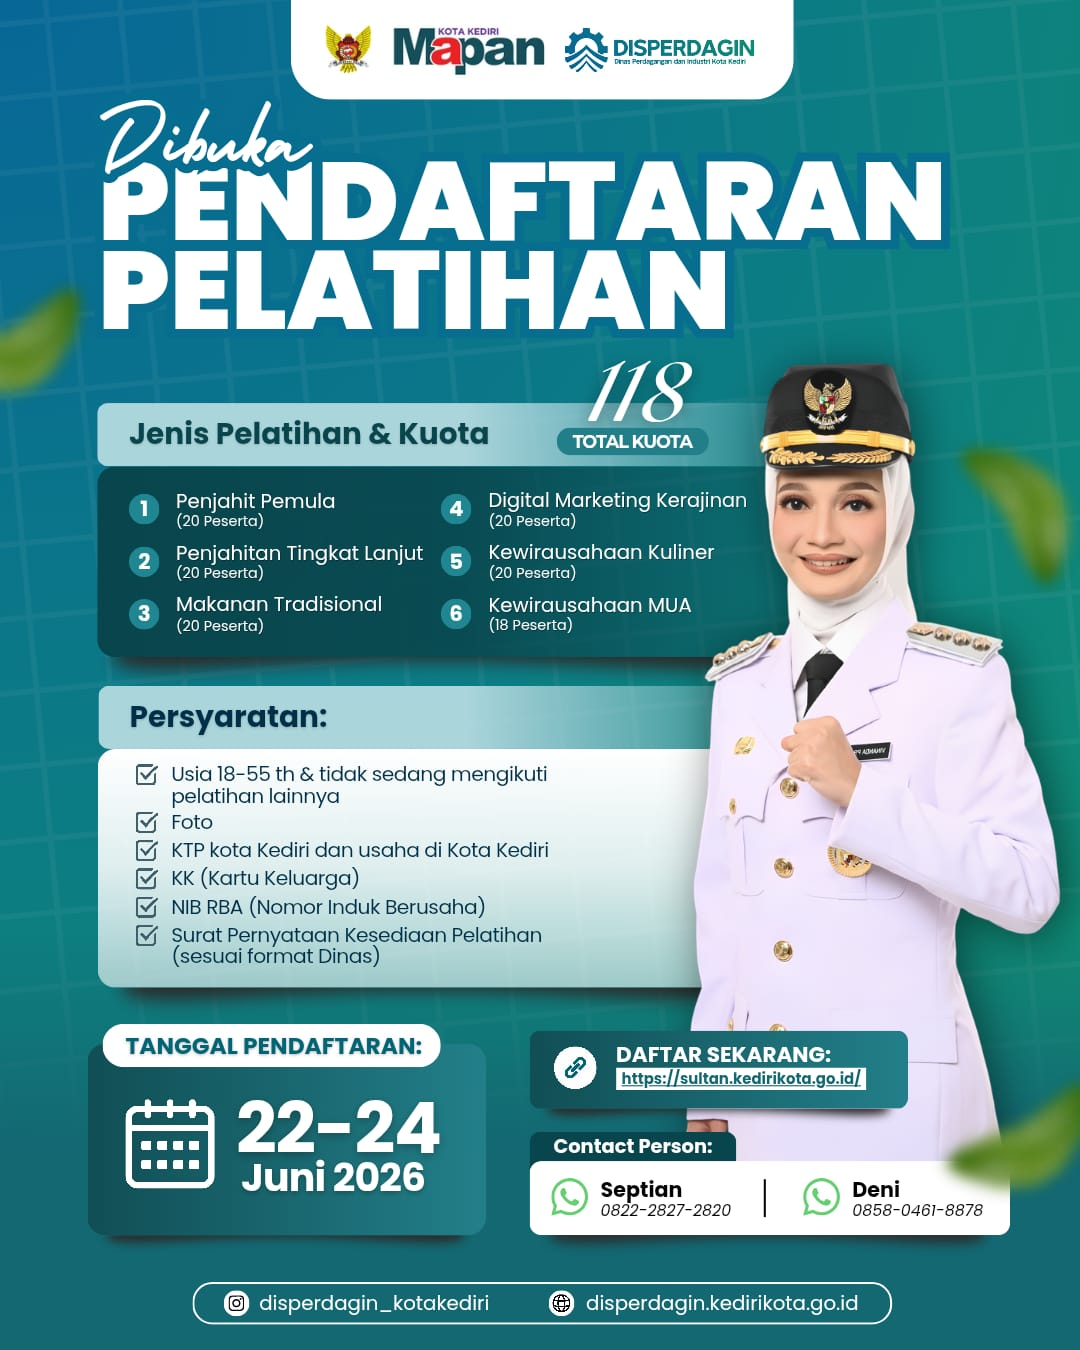
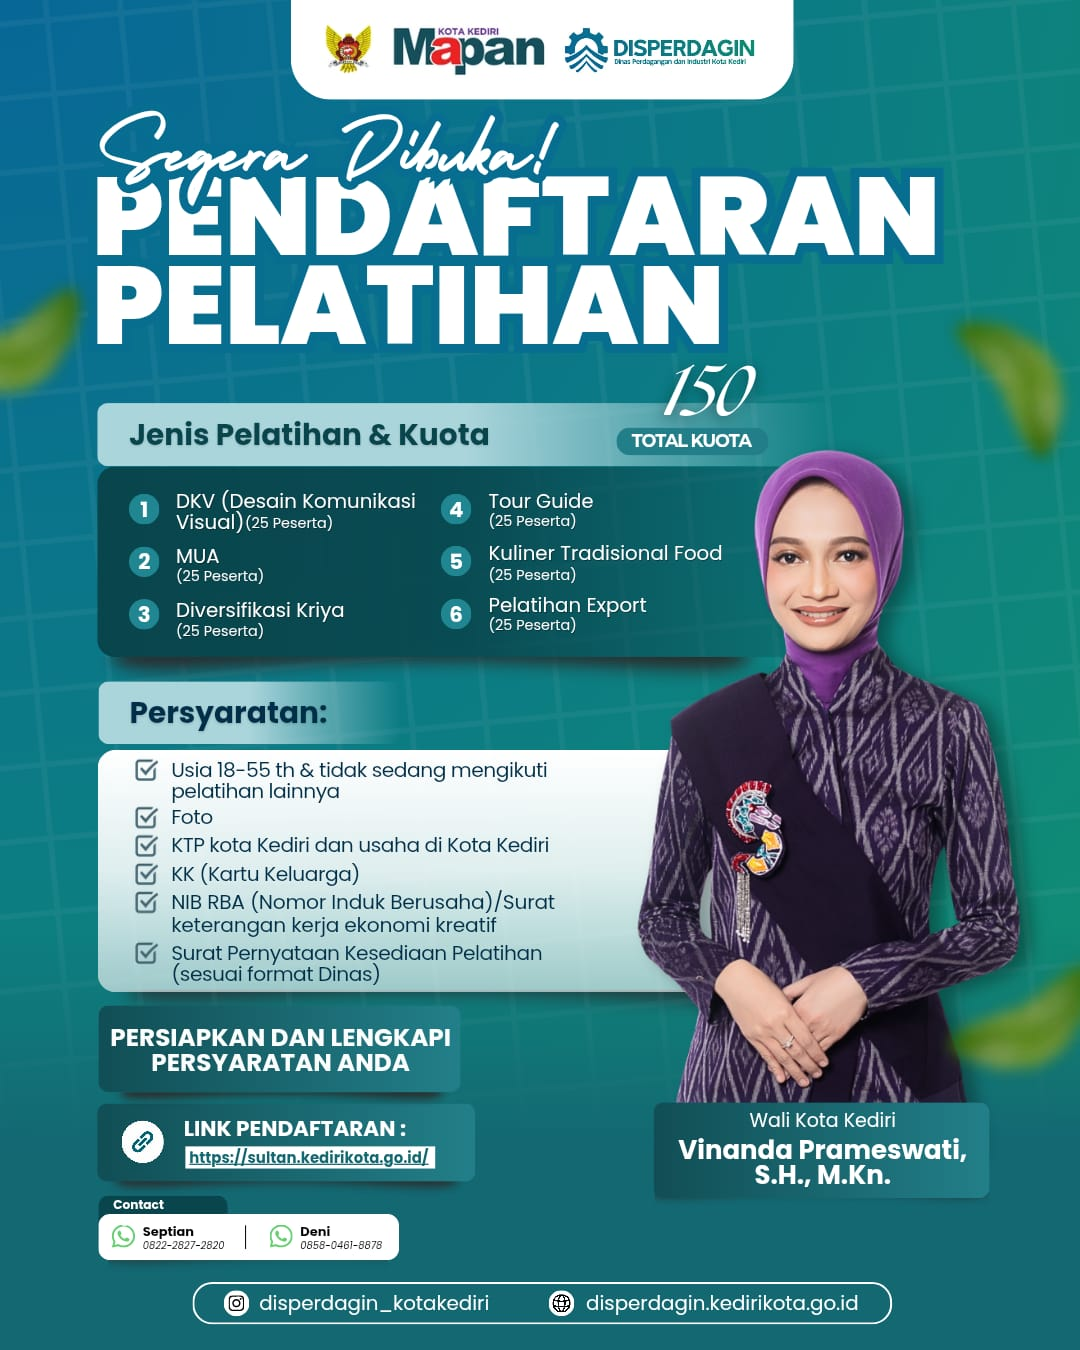
feat: update statistics to count current year registrations and enable WelcomePopup in the homepage

diff --git a/resources/js/Pages/Home/Index.jsx b/resources/js/Pages/Home/Index.jsx
@@ -24,7 +24,7 @@ export default function Index({
 
     return (
         <>
-            {/* <WelcomePopup /> */}
+            <WelcomePopup />
             <Layout>
                 <Head title={meta.title} />
                 <style>
@@ -288,7 +288,7 @@ export default function Index({
                                 color: "#22223b",
                             }}
                         >
-                            Statistik Pendaftar Program
+                            Statistik Pendaftar Program Tahun {new Date().getFullYear()}
                         </h2>
 
                         <Row className="justify-content-center text-center g-4">

diff --git a/app/Http/Controllers/HomeController.php b/app/Http/Controllers/HomeController.php
@@ -19,12 +19,12 @@ class HomeController extends Controller
 {
     public function index()
     {
-        $banmod = PendaftaranBanmod::count();
-        $pelatihanbanmod = PelatihanBanmod::count();
-        $pencarikerja = PelatihanKerjas::count();
-        $umkm = PelatihanUmkm::count();
-        $pertanian = PelatihanPetani::count();
-        $ekraf = PelatihanEkonomiKreatif::count();
+        $banmod = PendaftaranBanmod::whereYear('created_at', now()->year)->count();
+        $pelatihanbanmod = PelatihanBanmod::whereYear('created_at', now()->year)->count();
+        $pencarikerja = PelatihanKerjas::whereYear('created_at', now()->year)->count();
+        $umkm = PelatihanUmkm::whereYear('created_at', now()->year)->count();
+        $pertanian = PelatihanPetani::whereYear('created_at', now()->year)->count();
+        $ekraf = PelatihanEkonomiKreatif::whereYear('created_at', now()->year)->count();
 
         // Ambil data training types dari database
         $trainings = TrainingType::orderBy('order')->get()->map(function($training) {
